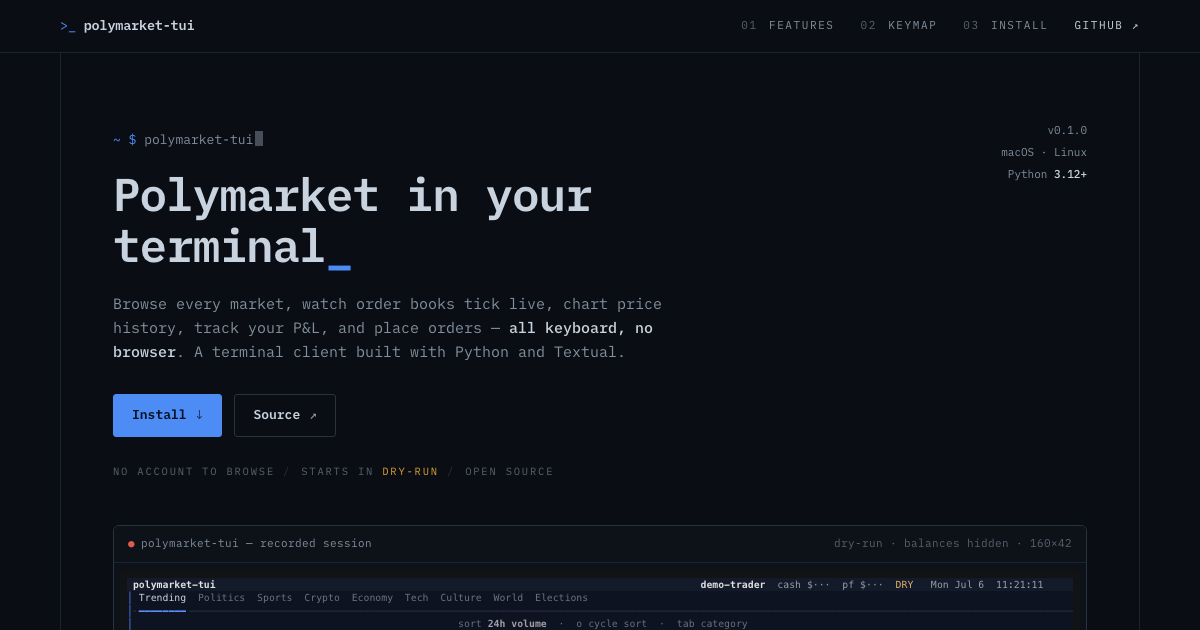
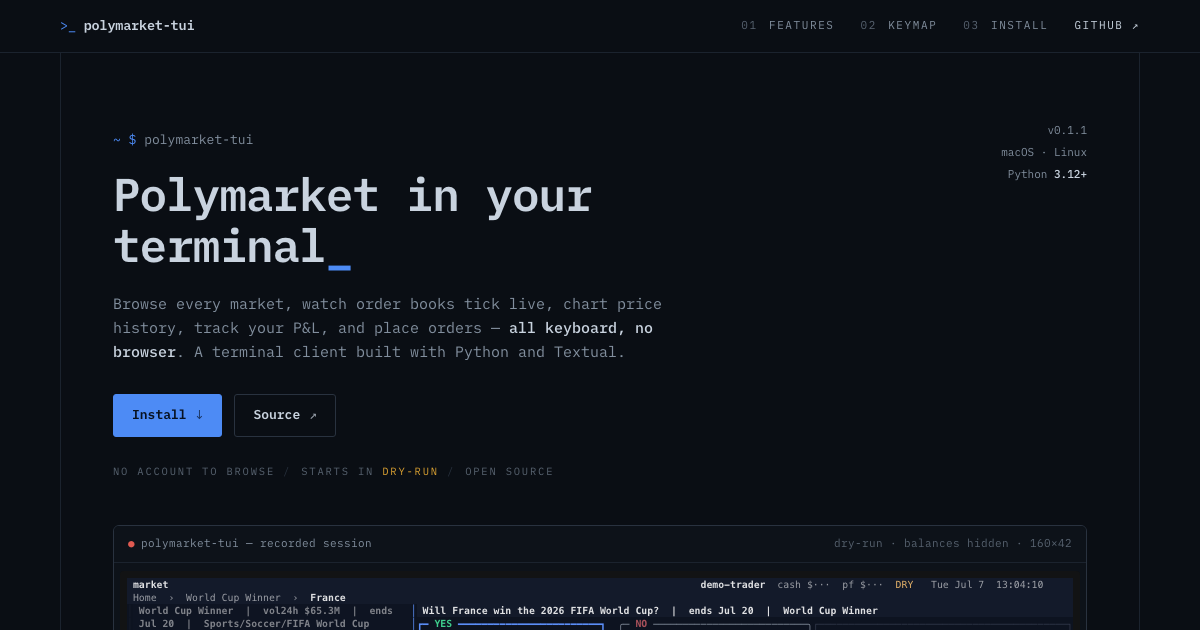
Landing: current install commands; demo re-recorded, best features first (#111)
Install section now leads with PyPI and the one-command tap install
(brew install byronxlg/tap/polymarket-tui); hero spec bumped to v0.1.1.

Demo re-recorded against 0.1.1 (43.9s, was 51s): straight into the top
market, cursor the streaming book, BUY 100 reviewed and placed in DRY,
tab-flip to the NO book, chart timeframe, the trade tape and a public
trader, search. Choreography re-verified key-by-key against the live app
(book-first focus and the tab outcome toggle from #89/#108 obsoleted the
old script). Player/site poster now freezes the order-review moment
(npt:0:18); demo-poster.png crops the book instead of the sidebar; og.png
strip shows the market screen. demo.gif regenerated (2.0M).

Changed region(s): [[0.0925, 0.9048, 0.74, 1.0], [0.8325, 0.9048, 0.8633, 0.9349]]

diff --git a/site/index.html b/site/index.html
@@ -299,7 +299,7 @@
 <div class="rail">
 
 <header class="hero">
-  <div class="hero-spec">v0.1.0<br>macOS &middot; Linux<br>Python <b>3.12+</b></div>
+  <div class="hero-spec">v0.1.1<br>macOS &middot; Linux<br>Python <b>3.12+</b></div>
   <p class="ps1"><span class="p">~ $</span> polymarket-tui<span class="caret"></span></p>
   <h1>Polymarket in your terminal<span class="u">_</span></h1>
   <p class="sub">Browse every market, watch order books tick live, chart price history,
@@ -325,15 +325,15 @@
         <div id="demo-player" class="demo-player"></div>
         <div id="demo-static" class="demo-static" hidden>
           <img src="assets/demo-poster.png" width="790" height="610" loading="lazy"
-            alt="polymarket-tui browse screen: category tabs above a table of trending markets with live prices" />
+            alt="polymarket-tui market screen: YES/NO price chips above a live order book with depth bars" />
           <button id="demo-play" class="demo-play" type="button">Play recording</button>
         </div>
         <noscript><p class="term-caption">The recorded session needs JavaScript; everything below works without it.</p></noscript>
       </div>
     </div>
-    <p class="term-caption">Browse &#8594; star a watchlist &#8594; open a market &#8594; place a buy (dry-run: signed,
-      never posted) &#8594; cursor the live book &#8594; peek a top trader's book &#8594; search.
-      Real exchange, real data. <a href="#install">Install it</a>.</p>
+    <p class="term-caption">Open the top market &#8594; cursor the live book &#8594; place a buy (dry-run:
+      signed, never posted) &#8594; flip to the NO book &#8594; chart &#8594; the trade tape and a top
+      trader &#8594; search. Real exchange, real data. <a href="#install">Install it</a>.</p>
   </div>
 </header>
 
@@ -376,16 +376,17 @@
 <section id="install">
   <div class="sec-head">
     <span class="sec-label"><i>03</i>Install</span>
-    <h2>Three ways to install</h2>
-    <p class="lead">Python 3.12+. The curl script installs <code>uv</code> for you if it is missing.</p>
+    <h2>Four ways to install</h2>
+    <p class="lead">Python 3.12+. On PyPI and Homebrew; the curl script installs <code>uv</code> for you if it is missing.</p>
   </div>
   <div class="split">
     <div class="install-left code-block">
-      <span class="cmt"># one-liner</span>
-      <div class="cmd"><span class="p">$</span><pre id="c1">curl -sSL https://raw.githubusercontent.com/byronxlg/polymarket-tui/main/install.sh | bash</pre><button class="copy" data-c="c1">copy</button></div>
+      <span class="cmt"># pypi</span>
+      <div class="cmd"><span class="p">$</span><pre id="c1">uv tool install polymarket-tui</pre><button class="copy" data-c="c1">copy</button></div>
       <span class="cmt"># homebrew</span>
-      <div class="cmd"><span class="p">$</span><pre id="c2">brew tap byronxlg/polymarket-tui https://github.com/byronxlg/polymarket-tui
-brew install polymarket-tui</pre><button class="copy" data-c="c2">copy</button></div>
+      <div class="cmd"><span class="p">$</span><pre id="c2">brew install byronxlg/tap/polymarket-tui</pre><button class="copy" data-c="c2">copy</button></div>
+      <span class="cmt"># one-liner</span>
+      <div class="cmd"><span class="p">$</span><pre id="c4">curl -sSL https://raw.githubusercontent.com/byronxlg/polymarket-tui/main/install.sh | bash</pre><button class="copy" data-c="c4">copy</button></div>
       <span class="cmt"># from source</span>
       <div class="cmd"><span class="p">$</span><pre id="c3">git clone https://github.com/byronxlg/polymarket-tui
 cd polymarket-tui &amp;&amp; uv sync &amp;&amp; uv run polymarket-tui</pre><button class="copy" data-c="c3">copy</button></div>
@@ -438,7 +439,7 @@ cd polymarket-tui &amp;&amp; uv sync &amp;&amp; uv run polymarket-tui</pre><butt
       controls: true,
       fit: "width",     // scale the terminal to the container width (never overflow)
       theme: "asciinema",
-      poster: "npt:0:2",
+      poster: "npt:0:18",
       idleTimeLimit: 2,
     });
   }

diff --git a/scripts/make_site_images.py b/scripts/make_site_images.py
@@ -25,9 +25,11 @@ SITE = Path(__file__).resolve().parent.parent / "site"
 ASSETS = SITE / "assets"
 
 # demo-poster.png geometry: widen the page rail so the 160-col terminal
-# renders large, then crop the top-left ~55 columns - phone-width readable.
+# renders large, then crop a phone-width window onto the order book (the
+# poster frame is the market screen at npt:0:18, book ~cols 46-107).
 WIDE_RAIL_PX = 2400
 POSTER_W, POSTER_H = 790, 610
+POSTER_CROP_X = 700  # px into the terminal: skips the outcome sidebar
 
 
 def serve_site() -> int:
@@ -48,7 +50,9 @@ def main() -> None:
         page = browser.new_page(viewport={"width": 1200, "height": 630})
         page.goto(url)
         page.wait_for_load_state("networkidle")
-        page.wait_for_timeout(2500)  # let the player draw a frame
+        # Let autoplay reach the market screen (book on screen from ~8s in)
+        # so the visible terminal strip shows the live book, not the boot list.
+        page.wait_for_timeout(11000)
         page.screenshot(path=str(ASSETS / "og.png"))
         page.close()
 
@@ -65,7 +69,7 @@ def main() -> None:
               holder.innerHTML = "";
               AsciinemaPlayer.create("assets/demo.cast", holder, {
                 autoPlay: false, controls: false, fit: "width",
-                theme: "asciinema", poster: "npt:0:2",
+                theme: "asciinema", poster: "npt:0:18",
               });
             }"""
         )
@@ -75,7 +79,12 @@ def main() -> None:
         assert box and box["width"] > 2000, f"terminal did not widen: {box}"
         page.screenshot(
             path=str(ASSETS / "demo-poster.png"),
-            clip={"x": box["x"], "y": box["y"], "width": POSTER_W, "height": POSTER_H},
+            clip={
+                "x": box["x"] + POSTER_CROP_X,
+                "y": box["y"],
+                "width": POSTER_W,
+                "height": POSTER_H,
+            },
         )
         page.close()
         browser.close()

diff --git a/README.md b/README.md
@@ -56,8 +56,9 @@ and any trader's public positions all work read-only.
 
 A static landing page lives in [`site/`](site/) and deploys to GitHub Pages
 (https://byronxlg.github.io/polymarket-tui/). Its hero plays a recorded
-asciinema demo of the TUI - browse markets, open one, cursor the live book,
-chart, search. Preview it locally with `python3 -m http.server -d site 8000`,
+asciinema demo of the TUI - straight into the top market, cursor the live
+book, a dry-run buy, the NO flip, chart, trade tape, search. Preview it
+locally with `python3 -m http.server -d site 8000`,
 and regenerate the demo with `bash scripts/record_demo.sh`. See
 [`site/README.md`](site/README.md).
 